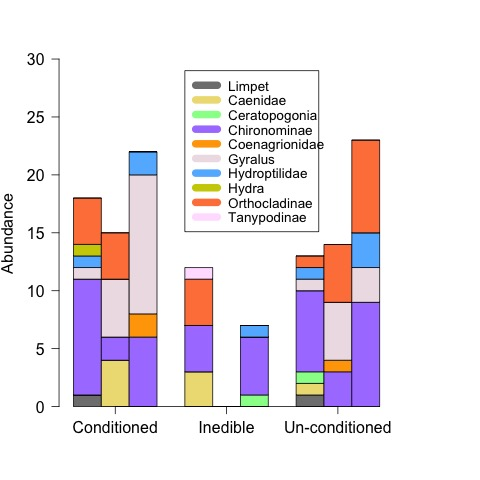
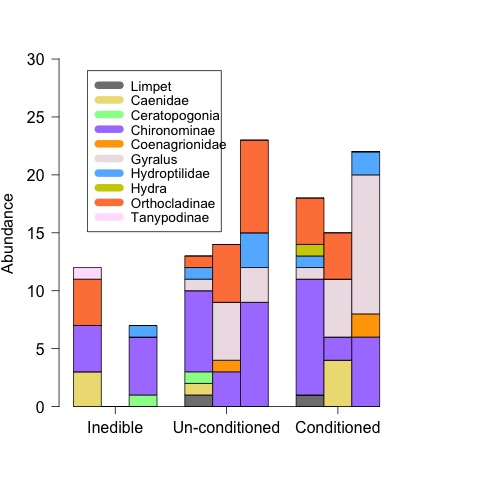
reordered factors for stacked bar plot

Changed region(s): [[0.125, 0.1562, 0.8125, 0.9062]]

diff --git a/lab_notebook/metadata/bugs_2017_metadata.md b/lab_notebook/metadata/bugs_2017_metadata.md
@@ -57,21 +57,21 @@ The data show the type and abundance of animals recovered from the leaf packs at
 
 ## Data Entry
 
-    site <- c("COND.B", "COND.A", "COND.C", "BAG.A", "BAG.B", "BAG.C", "UC.A", "UC.C", "UC.B")
-    litter <- c("COND", "COND", "COND", "BAG", "BAG", "BAG", "UC", "UC", "UC")
-    rep <- c("B", "A", "C", "A", "B", "C", "A", "C", "B")
+    site <- c("BAG.A", "BAG.B", "BAG.C", "UC.A", "UC.C", "UC.B", "COND.B", "COND.A", "COND.C")
+    litter <- c("BAG", "BAG", "BAG", "UC", "UC", "UC", "COND", "COND", "COND")
+    rep <- c("A", "B", "C", "A", "C", "B", "B", "A", "C")
     # Taxa
-    Ancl <- c(1, 0, 0, 0, 0, 0, 1, 0, 0)
-    Caen <- c(0, 4, 0, 3, 0, 0, 1, 0, 0) 
-    Cerato <- c(0, 0, 0, 0, 0, 1, 1, 0, 0)
-    Chiro <- c(10, 2, 6, 4, 0, 5, 7, 3, 9)
-    Coen <- c(0, 0, 2, 0, 0, 0, 0, 1, 0)
-    Gyralus <- c(1, 5, 12, 0, 0, 0, 1, 5, 3)
-    Hydrop <- c(1, 0, 2, 0, 0, 1, 1, 0, 3)
-    Hydra <- c(1, 0, 0, 0, 0, 0, 0, 0, 0)
-    Oligo <- c(0, 0, 0, 0, 0, 9, 0, 1, 14)
-    Ortho <- c(4, 4, 0, 4, 0, 0, 1, 5, 8)
-    Tany <- c(0, 0, 0, 1, 0, 0, 0, 0, 0)
+    Ancl <- c(0, 0, 0, 1, 0, 0, 1, 0, 0)
+    Caen <- c(3, 0, 0, 1, 0, 0, 0, 4, 0) 
+    Cerato <- c(0, 0, 1, 1, 0, 0, 0, 0, 0)
+    Chiro <- c(4, 0, 5, 7, 3, 9, 10, 2, 6)
+    Coen <- c(0, 0, 0, 0, 1, 0, 0, 0, 2)
+    Gyralus <- c(0, 0, 0, 1, 5, 3, 1, 5, 12)
+    Hydrop <- c(0, 0, 1, 1, 0, 3, 1, 0, 2)
+    Hydra <- c(0, 0, 0, 0, 0, 0, 1, 0, 0)
+    Oligo <- c(0, 0, 9, 0, 1, 14, 0, 0, 0)
+    Ortho <- c(4, 0, 0, 1, 5, 8, 4, 4, 0)
+    Tany <- c(1, 0, 0, 0, 0, 0, 0, 0, 0)
     
      
 ### Make Data Frame
@@ -94,3 +94,4 @@ The sites are in the same order as they were in the original data.frame
 ### Matrix
 
     write.table(bug.mat, "./data/bugs_matrix_2017.csv", row.names = F, quote = F, sep = ",")
+

diff --git a/lab_notebook/analysis/bug_analysis.md b/lab_notebook/analysis/bug_analysis.md
@@ -18,7 +18,7 @@ The description of the experiment can be found in [https://github.com/KennyPeanu
     bugs <- read.table("./data/bugs_2017.csv", header = T, sep = ",")
     
 ### Import Matrix
-    bug.mat <- as.matrix(read.table("./bugs_matrix_2017.csv", header = T, sep = ","))
+    bug.mat <- as.matrix(read.table("./data/bugs_matrix_2017.csv", header = T, sep = ","))
     
 ## Matrix Analysis
 
@@ -32,8 +32,8 @@ The oligochates were not reliably sampled so they are removed from the dataset
     
     par(las = 1)
     barplot(t(bug.mat.wormless), col = c("gray50", "lightgoldenrod", "palegreen", "mediumpurple1", "orange", "lavenderblush2", "steelblue1", "yellow3", "sienna1", "thistle1"), ylim = c(0, 30), ylab = "Abundance", space = c(0, 0, 0, 1, 0, 0, 1, 0, 0, 0, 0)) # t transposes the matrix so that site is on the x-axis
-    axis(1, c("Conditioned", "Inedible", "Un-conditioned"), at = c(1.5, 5.5, 9.5))    
-    legend(4, 29, c("Limpet", "Caenidae", "Ceratopogonia", "Chironominae", "Coenagrionidae", "Gyralus", "Hydroptilidae", "Hydra", "Orthocladinae", "Tanypodinae"), lty = 1, lwd = 10, col = c("gray50", "lightgoldenrod", "palegreen", "mediumpurple1", "orange", "lavenderblush2", "steelblue1", "yellow3", "sienna1", "thistle1"), cex = 0.85)
+    axis(1, c("Inedible", "Un-conditioned", "Conditioned"), at = c(1.5, 5.5, 9.5))    
+    legend(0.5, 29, c("Limpet", "Caenidae", "Ceratopogonia", "Chironominae", "Coenagrionidae", "Gyralus", "Hydroptilidae", "Hydra", "Orthocladinae", "Tanypodinae"), lty = 1, lwd = 10, col = c("gray50", "lightgoldenrod", "palegreen", "mediumpurple1", "orange", "lavenderblush2", "steelblue1", "yellow3", "sienna1", "thistle1"), cex = 0.85)
     dev.copy(jpeg, "./output/plots/bugs_stacked_bar.jpg")
     dev.off()
 
